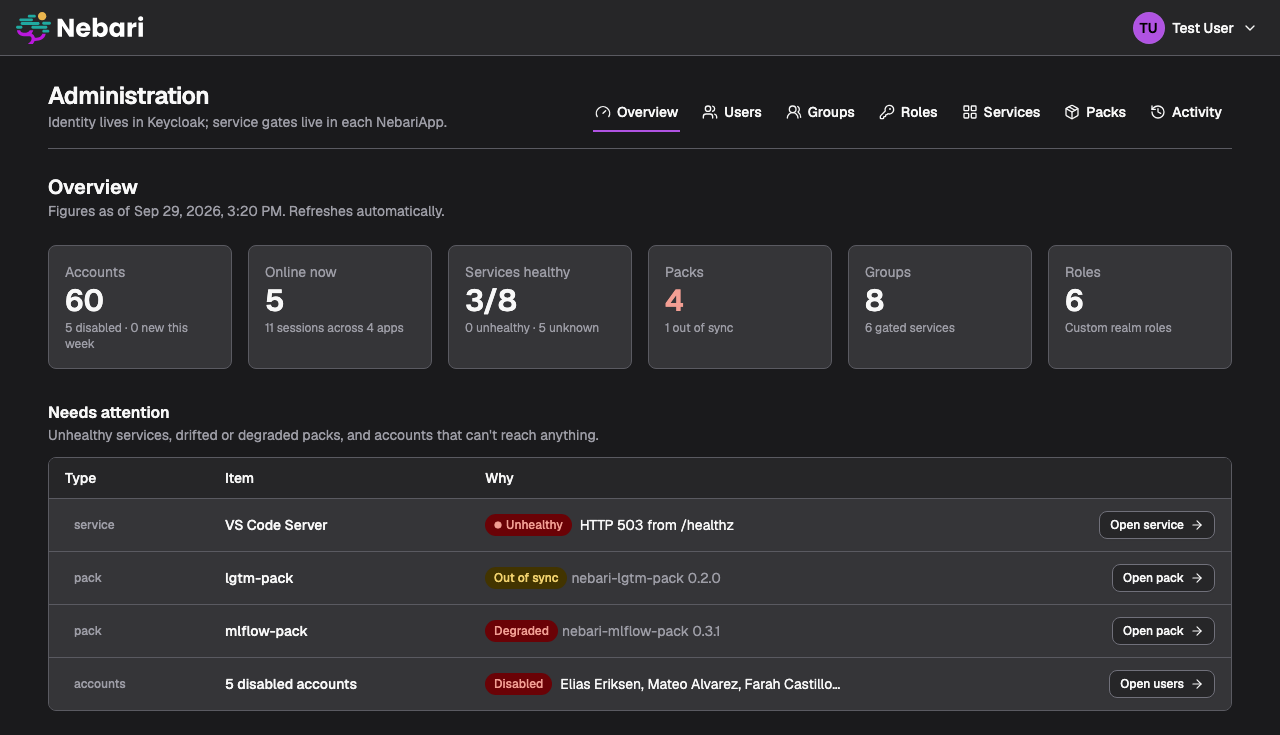
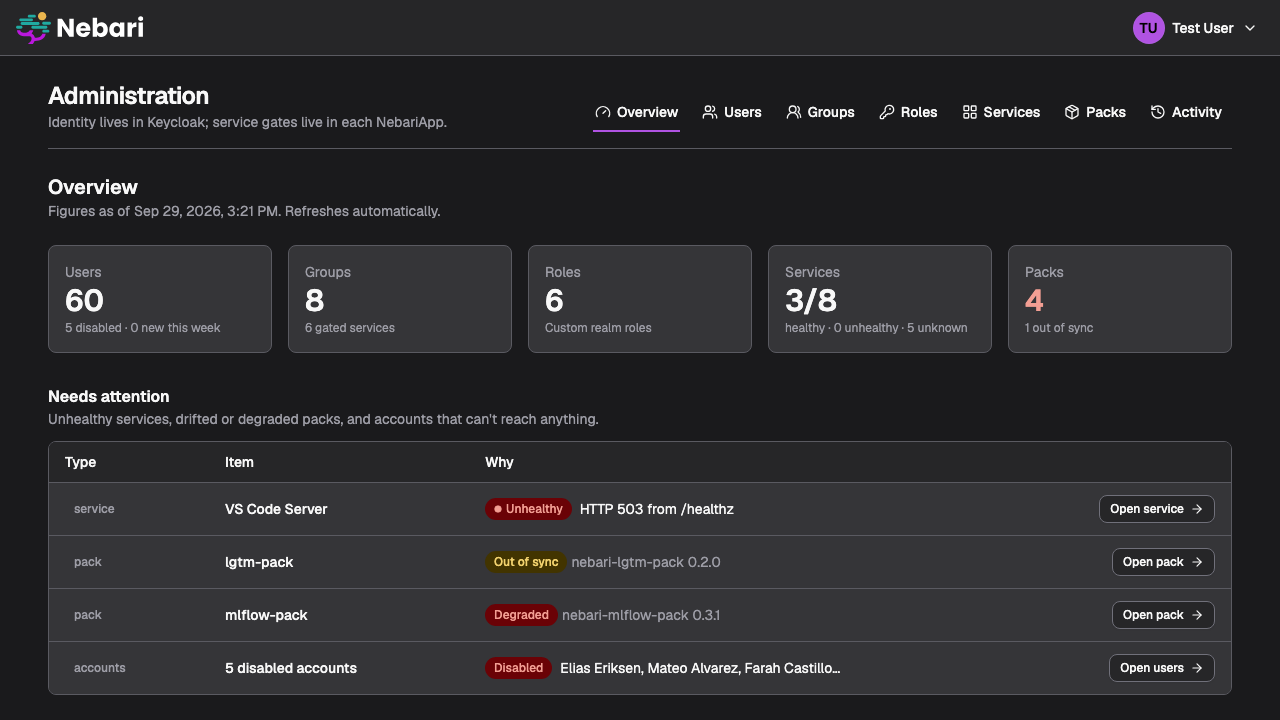
feat(frontend): overview tiles are Users, Groups, Roles, Services, Packs
Drops the Online now tile and fixes the unused import that broke the
frontend image build in the previous commit.

Claude-Session: https://claude.ai/code/session_01P6LHR1J8qoTHyei6oh5qmU

diff --git a/frontend/src/admin/pages/OverviewPage.tsx b/frontend/src/admin/pages/OverviewPage.tsx
@@ -14,7 +14,7 @@ import {
 } from "@/components/ui/table";
 import { ArgoHealthBadge, SyncBadge } from "../components/ArgoBadges";
 import { EmptyState } from "../components/EmptyState";
-import { StatusBadge as AccountStatusBadge, GroupBadge } from "../components/EntityBadges";
+import { StatusBadge as AccountStatusBadge } from "../components/EntityBadges";
 import { PageHeader } from "../components/PageHeader";
 import { StatTile } from "../components/StatTile";
 import { useAdminOverview, useAdminWorld, usePacks } from "../hooks/useAdminData";
@@ -147,9 +147,9 @@ export function OverviewPage() {
           }
         />
       ) : (
-        <div className="grid gap-4 sm:grid-cols-2 lg:grid-cols-3 xl:grid-cols-6">
+        <div className="grid gap-4 sm:grid-cols-2 lg:grid-cols-5">
           <StatTile
-            label="Accounts"
+            label="Users"
             value={o?.users.total}
             detail={
               o ? `${o.users.disabled} disabled · ${o.users.createdLast7Days} new this week` : null
@@ -158,19 +158,31 @@ export function OverviewPage() {
             loading={loading}
           />
           <StatTile
-            label="Online now"
-            value={o ? (o.sessions ? o.sessions.users : "—") : undefined}
+            label="Groups"
+            value={o?.groups}
             detail={
-              o?.sessions
-                ? `${pluralize(o.sessions.sessions, "session")} across ${pluralize(o.sessions.clients.length, "app")}`
-                : "Keycloak sessions unavailable"
+              o
+                ? `${o.services.gated} gated ${o.services.gated === 1 ? "service" : "services"}`
+                : null
             }
+            to="/admin/groups"
             loading={loading}
           />
           <StatTile
-            label="Services healthy"
+            label="Roles"
+            value={o?.roles}
+            detail="Custom realm roles"
+            to="/admin/roles"
+            loading={loading}
+          />
+          <StatTile
+            label="Services"
             value={o ? `${o.services.healthy}/${o.services.total}` : undefined}
-            detail={o ? `${o.services.unhealthy} unhealthy · ${o.services.unknown} unknown` : null}
+            detail={
+              o
+                ? `healthy · ${o.services.unhealthy} unhealthy · ${o.services.unknown} unknown`
+                : null
+            }
             to="/admin/services"
             tone={o && o.services.unhealthy > 0 ? "danger" : "default"}
             loading={loading}
@@ -190,24 +202,6 @@ export function OverviewPage() {
                 : "default"
             }
             loading={packs.isPending}
-          />
-          <StatTile
-            label="Groups"
-            value={o?.groups}
-            detail={
-              o
-                ? `${o.services.gated} gated ${o.services.gated === 1 ? "service" : "services"}`
-                : null
-            }
-            to="/admin/groups"
-            loading={loading}
-          />
-          <StatTile
-            label="Roles"
-            value={o?.roles}
-            detail="Custom realm roles"
-            to="/admin/roles"
-            loading={loading}
           />
         </div>
       )}

diff --git a/frontend/tests/e2e/admin.spec.ts b/frontend/tests/e2e/admin.spec.ts
@@ -55,7 +55,7 @@ test.describe("entry point", () => {
 test.describe("overview", () => {
   test("shows headline figures, attention items and recent activity", async ({ page }) => {
     await page.goto("/admin/overview");
-    await expect(page.getByRole("link", { name: /^Accounts: 60/ })).toBeVisible();
+    await expect(page.getByRole("link", { name: /^Users: 60/ })).toBeVisible();
     await expect(page.getByRole("link", { name: /^Packs: 4/ })).toBeVisible();
 
     const attention = page.getByRole("table", { name: "Needs attention" });
